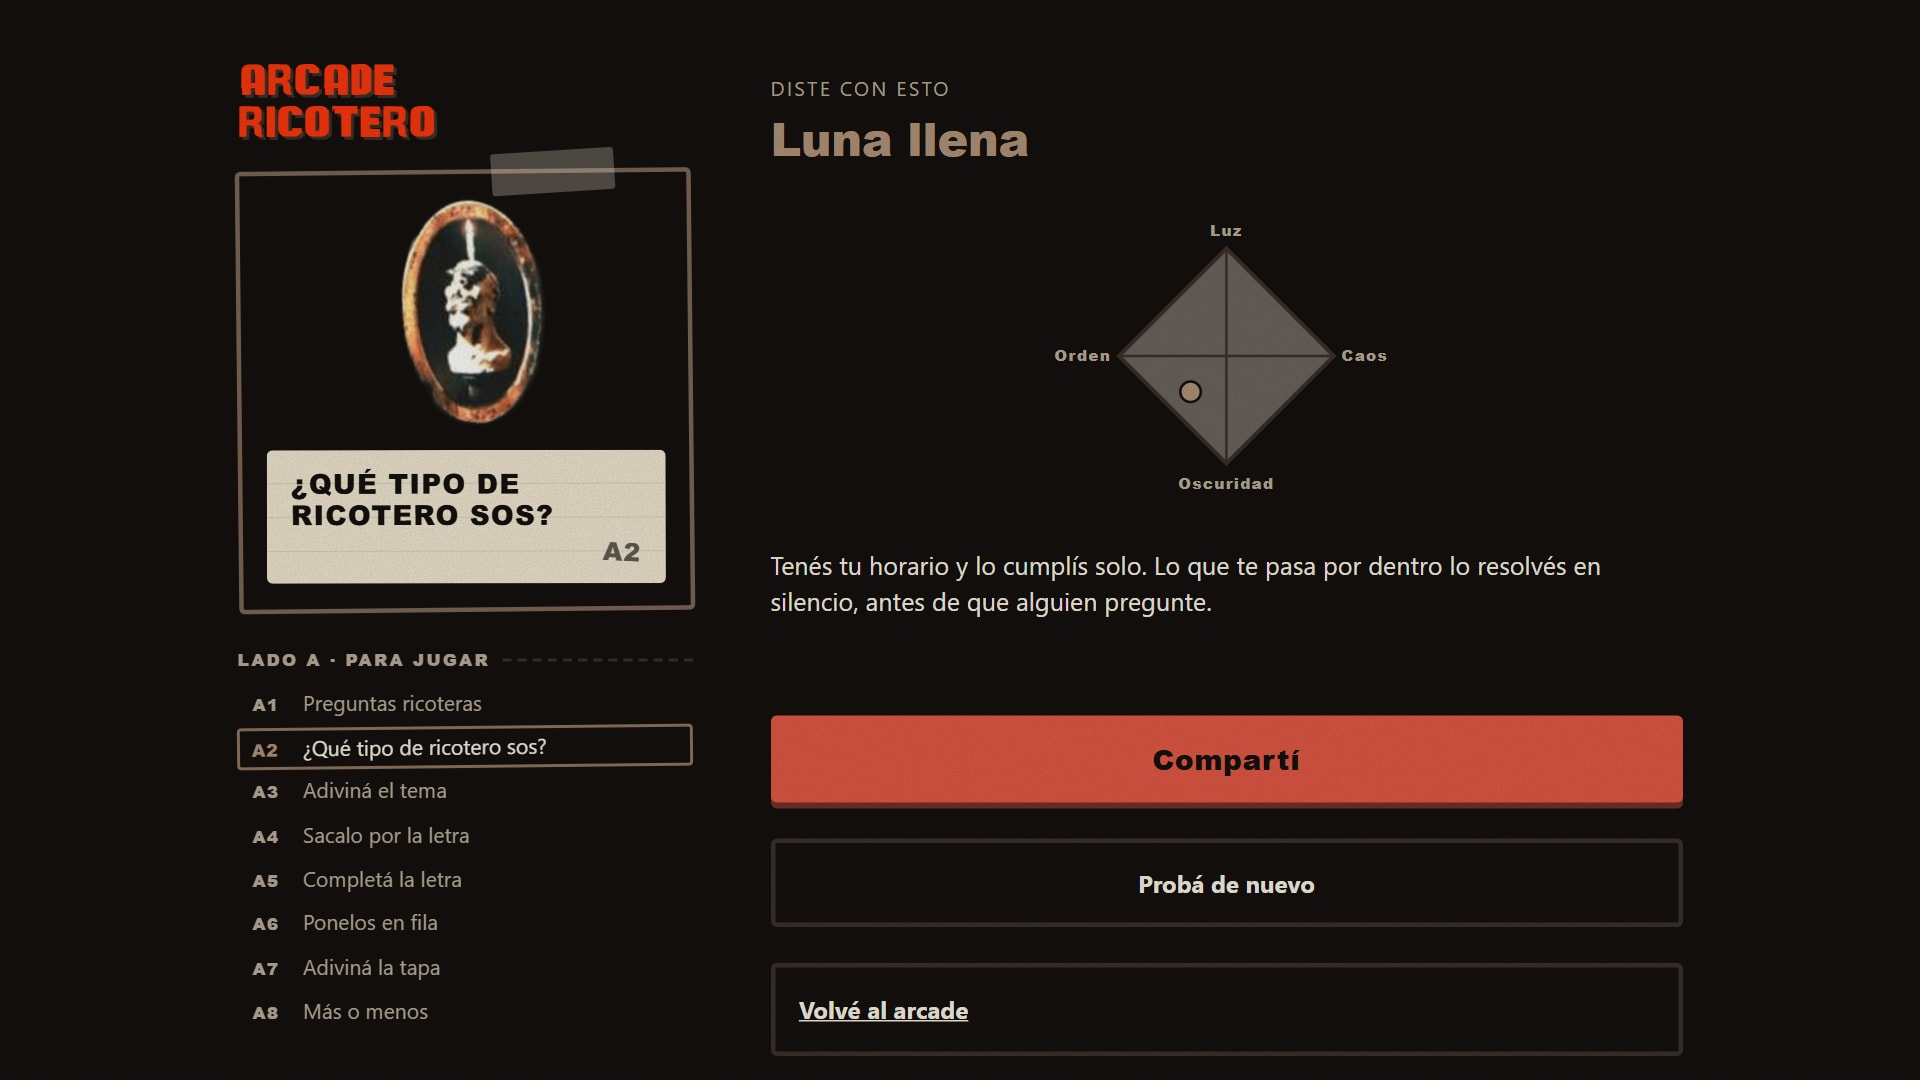
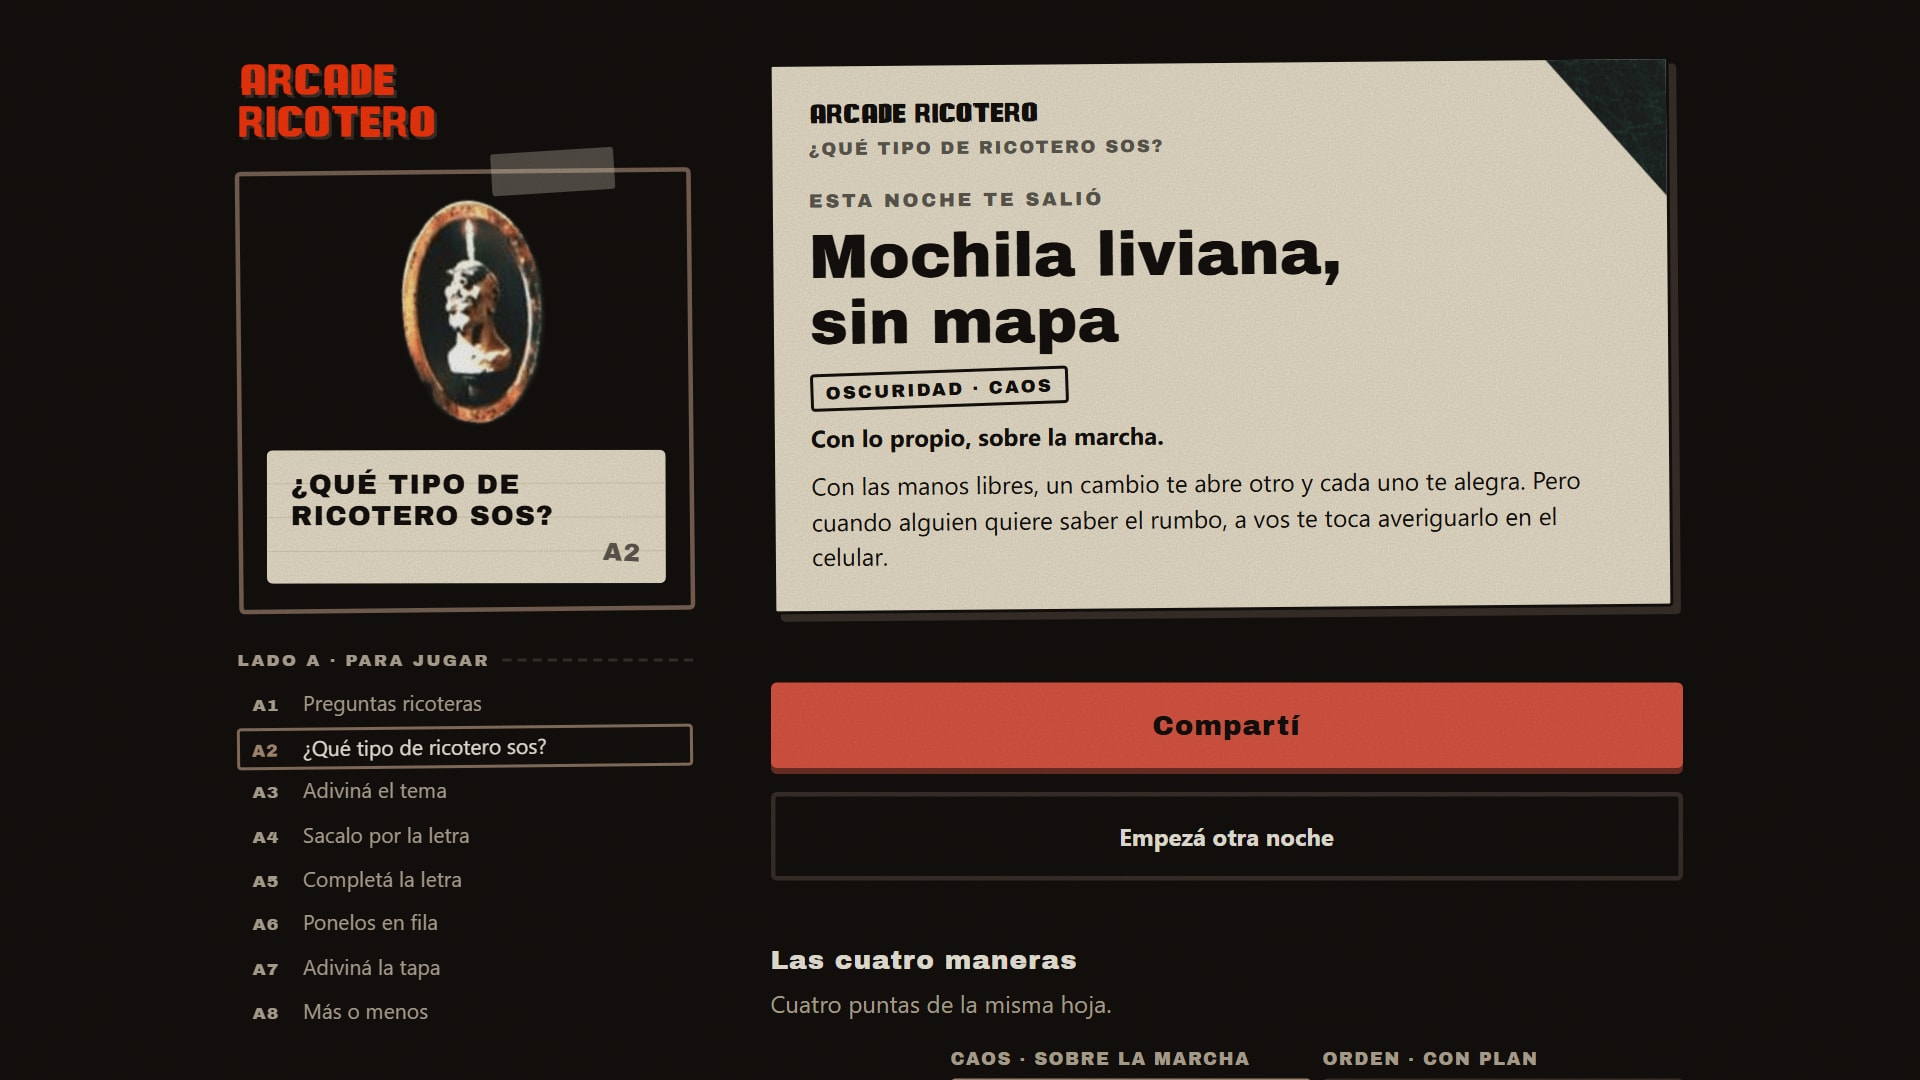
El hilo pasa a Fichín Ricotero, con el tono de los 40 de Oktubre
El usuario escribió el primer posteo ("Felices 40 años de Oktubre, hermanos
ricoteros...") y pidió pulirlo y llevar los otros once a ese tono: más de
fan a fan, más cerca. Además, el sitio cambia de nombre a Fichín Ricotero y
de dominio a fichinricotero.com.ar.

- hilo.json y hilo.md: los doce textos reescritos y los 13 enlaces
  apuntando a https://fichinricotero.com.ar/. Los doce entran en 280 (el
  más largo, 274), y las 13 rutas responden 200 en el deploy actual. El
  dominio nuevo todavía no resuelve DNS: no se puede publicar hasta que
  cargue.
- El 5 cuenta el juego nuevo del ciclo 18 (una noche de recital en diez
  preguntas) y su foto se volvió a sacar con el resultado nuevo.
- La descripción de la foto 1 ya no nombra la marca, para no tener que
  tocarla cuando se vuelvan a sacar las fotos.
- Las fotos siguen mostrando ARCADE RICOTERO: se vuelven a sacar cuando el
  nombre nuevo esté en producción.

diff --git a/difusion/hilo-twitter/hilo.md b/difusion/hilo-twitter/hilo.md
@@ -1,35 +1,41 @@
-# Hilo del Arcade Ricotero
+# Hilo del Fichín Ricotero
 
-Doce posteos. El 1 va suelto; cada uno de los siguientes, como respuesta al anterior. La foto de cada uno está en esta carpeta con el mismo número.
+Doce posteos para el 4 de octubre de 2026, los 40 años de Oktubre. El 1 va suelto; cada uno de los siguientes, como respuesta al anterior. La foto de cada uno está en esta carpeta con el mismo número.
+
+Antes de publicar:
+
+- Los enlaces apuntan a https://fichinricotero.com.ar, que tiene que estar cargando. El 4 de octubre a la tarde todavía no resolvía.
+- Las fotos se sacaron con la marca vieja (ARCADE RICOTERO). Se vuelven a sacar cuando el nombre nuevo esté publicado.
+- El 1 y el 3 hablan del cumpleaños de Oktubre: son para el 4 de octubre.
 
 ## 1 · Presentación
 
 Foto: `01-portada.jpg`
 
 ```
-Estás en la puerta, con las dos cintas.
+Felices 40 años de Oktubre, hermanos ricoteros.
 
-Arcade Ricotero: nueve juegos sobre Patricio Rey y sus Redonditos de Ricota, para el celular y un rato suelto. Sin cuenta ni entrada, sepas lo que sepas. Los molinetes van abiertos.
+¿Qué mejor día para sacar el Fichín Ricotero? Una página de juegos y data redonda para festejarlo: gratis, sin cuenta, sepas mucho o nada.
 
-Abajo, uno por uno.
+Abajo, juego por juego.
 
-https://arcade-ricotero.vercel.app
+https://fichinricotero.com.ar
 ```
 
-Descripción de la foto: Portada del Arcade Ricotero: la marca, el afiche de octubre con los seis discos que salieron ese mes, y los primeros casetes de juegos.
+Descripción de la foto: Portada del sitio: la marca, el afiche de octubre con los seis discos que salieron ese mes, y los primeros casetes de juegos.
 
 ## 2 · Adiviná el tema
 
 Foto: `02-adivina-el-tema.jpg`
 
 ```
-El juego estrella: Adiviná el tema.
+Arrancamos por el juego estrella: Adiviná el tema.
 
-Suena una décima de segundo. ¿No sale? Te damos más: medio segundo, dos, cuatro, ocho, diez. Cuanto antes la pegues, más vale. Cuatro temas por vuelta, de los 95 que hay.
+Te suena una décima de segundo de un tema. Si no lo sacás, te damos más: medio segundo, dos, cuatro, ocho, diez. Cuanto antes la pegues, más puntos.
 
 ¿Te da el oído?
 
-https://arcade-ricotero.vercel.app/juegos/adivinar-el-tema/
+https://fichinricotero.com.ar/juegos/adivinar-el-tema/
 ```
 
 Descripción de la foto: Partida de Adiviná el tema: van dos pasadas, la cinta marca 2 segundos de audio sonando y el tema vale 60 puntos.
@@ -39,11 +45,11 @@ Descripción de la foto: Partida de Adiviná el tema: van dos pasadas, la cinta 
 Foto: `03-adivina-el-tema-la-sacaste.jpg`
 
 ```
-Cuando la sacás, aparece la tapa con el disco, el año y la pista, y de ahí saltás a la letra con los acordes.
+Cuando la pegás, te muestra la tapa, el año y la pista, y de ahí te vas a la letra con los acordes.
 
-Se juega con los diez discos o con uno solo. Este mes el portal tiene afiche: Oktubre cumple cuarenta el 4, y podés jugar solo con sus temas.
+Y por el cumple, en la portada hay afiche: podés jugar solo con los temas de Oktubre.
 
-https://arcade-ricotero.vercel.app
+https://fichinricotero.com.ar
 ```
 
 Descripción de la foto: Acierto en Adiviná el tema: sello de La sacaste, más 60, la tapa de Oktubre y la ficha del tema.
@@ -53,11 +59,11 @@ Descripción de la foto: Acierto en Adiviná el tema: sello de La sacaste, más 
 Foto: `04-preguntas-ricoteras.jpg`
 
 ```
-Preguntas ricoteras. Ninguna piadosa.
+Para los que se saben hasta los créditos: Preguntas ricoteras.
 
-Historia, discos, letras y mitología, de fácil a difícil, con tres vidas. Cada respuesta trae su explicación, y si el dato es leyenda, dice que es leyenda.
+Historia, discos, letras y mitología, de fácil a difícil y con tres vidas. Cada respuesta trae su explicación, y si algo es leyenda, te avisa que es leyenda.
 
-https://arcade-ricotero.vercel.app/quiz/
+https://fichinricotero.com.ar/quiz/
 ```
 
 Descripción de la foto: Pregunta de Preguntas ricoteras sobre el álbum doble, respondida bien, con la explicación abajo.
@@ -67,16 +73,14 @@ Descripción de la foto: Pregunta de Preguntas ricoteras sobre el álbum doble, 
 Foto: `05-que-tipo-de-ricotero-sos.jpg`
 
 ```
-¿Qué tipo de ricotero sos?
+¿Y si no sabés nada de la banda? Para vos está ¿Qué tipo de ricotero sos?
 
-Nadie te toma examen. Diez preguntas sobre vos, sin puntaje y sin saber nada de la banda: te ubica entre la luz y la oscuridad, el orden y el caos.
+Una noche de recital en diez preguntas, de la previa a la vuelta. Sin puntaje, sin examen y sin haber ido nunca. Mandáselo a ese amigo que todavía no escuchó un disco entero.
 
-Para mandárselo al que nunca escuchó un disco.
-
-https://arcade-ricotero.vercel.app/juegos/dos-ejes/
+https://fichinricotero.com.ar/juegos/dos-ejes/
 ```
 
-Descripción de la foto: Resultado de Qué tipo de ricotero sos: un rombo entre luz, oscuridad, orden y caos, con el punto del jugador.
+Descripción de la foto: Resultado de Qué tipo de ricotero sos: esta noche te salió Mochila liviana, sin mapa, con lo propio y sobre la marcha.
 
 ## 6 · Sacalo por la letra
 
@@ -85,9 +89,9 @@ Foto: `06-sacalo-por-la-letra.jpg`
 ```
 Sacalo por la letra.
 
-Un verso te tiene que alcanzar. Si no, van dos, cuatro, ocho. Escribís el título como te salga: sin tildes anda igual, y por la mitad también.
+Te mostramos un verso y tenés que decir de qué tema es. Si no sale, van dos versos, después cuatro, después ocho. Escribí el título como te salga: sin tildes anda igual.
 
-https://arcade-ricotero.vercel.app/juegos/adivinar-por-la-letra/
+https://fichinricotero.com.ar/juegos/adivinar-por-la-letra/
 ```
 
 Descripción de la foto: Sacalo por la letra: dos versos a la vista, el buscador para escribir el tema y el botón para pasar.
@@ -99,9 +103,9 @@ Foto: `07-completa-la-letra.jpg`
 ```
 Completá la letra.
 
-Lo tenés en la punta de la lengua. Falta una palabra del verso y hay cuatro para elegir. Ocho versos por vuelta.
+Ese verso que gritaste mil veces en el pogo, con una palabra menos. Cuatro opciones para elegir y ocho versos por vuelta. A ver si te la acordás.
 
-https://arcade-ricotero.vercel.app/juegos/completar-la-letra/
+https://fichinricotero.com.ar/juegos/completar-la-letra/
 ```
 
 Descripción de la foto: Completá la letra: un verso con la palabra que faltaba marcada en verde y las cuatro opciones.
@@ -113,9 +117,9 @@ Foto: `08-ponelos-en-fila.jpg`
 ```
 Ponelos en fila.
 
-Unos te tiran al pogo; otros, quietito. Los diez discos, las diez tapas o los temas de un disco: el orden lo armás vos, y después lo mandás para que te lo discutan.
+Agarrás los diez discos, las diez tapas o los temas de un disco y decidís cuáles te tiran al pogo y cuáles escuchás quietito. Después lo compartís, y que arranque la discusión.
 
-https://arcade-ricotero.vercel.app/juegos/ponelos-en-fila/
+https://fichinricotero.com.ar/juegos/ponelos-en-fila/
 ```
 
 Descripción de la foto: Ponelos en fila con las diez tapas: filas en el pogo, saltando, cabeceando y quietito, con algunas tapas ubicadas.
@@ -127,9 +131,9 @@ Foto: `09-adivina-la-tapa.jpg`
 ```
 Adiviná la tapa.
 
-Rocambole dibujó; vos ponés el disco. Un pedazo de tapa en pantalla y cuatro discos para elegir. Seis tapas por vuelta.
+Un pedazo de una tapa de Rocambole y cuatro discos para elegir, seis tapas por vuelta. Parece fácil hasta que te toca el pedazo equivocado.
 
-https://arcade-ricotero.vercel.app/juegos/adivinar-la-tapa/
+https://fichinricotero.com.ar/juegos/adivinar-la-tapa/
 ```
 
 Descripción de la foto: Adiviná la tapa: un pedazo de la tapa de Oktubre y cuatro discos para elegir.
@@ -141,11 +145,9 @@ Foto: `10-mas-o-menos.jpg`
 ```
 Más o menos.
 
-Preguntas de número sobre la banda: cuántos años, cuántos temas, cuánto dura. Elegís más o menos, sin red, hasta que le erres una.
+¿Cuántos temas tiene tal disco? ¿Cuánto dura En directo? Te tiramos un número y vos decís si es más o menos. Seguís hasta que le erres una.
 
-¿Cuánto te dura la racha?
-
-https://arcade-ricotero.vercel.app/juegos/mas-o-menos/
+https://fichinricotero.com.ar/juegos/mas-o-menos/
 ```
 
 Descripción de la foto: Más o menos: pregunta de cuántos temas tiene un disco, respondida bien, con la fuente del dato.
@@ -155,13 +157,13 @@ Descripción de la foto: Más o menos: pregunta de cuántos temas tiene un disco
 Foto: `11-skayboy-y-poligirl.jpg`
 
 ```
-Skayboy y Poligirl.
+Y un fichín de los de antes: Skayboy y Poligirl.
 
-Un fichín para dos en el mismo teléfono, cada uno de su lado, o para vos solo. Cielo para uno, infierno para el otro, y las puertas se abren juntas. En la computadora, con W A D y las flechas.
+Para jugar de a dos en el mismo celular, cada uno de su lado, o solo. Cielo para uno, infierno para el otro. En la compu va con W A D y las flechas.
 
 Homenaje de fans, no oficial.
 
-https://arcade-ricotero.vercel.app/juegos/skayboy-y-poligirl/
+https://fichinricotero.com.ar/juegos/skayboy-y-poligirl/
 ```
 
 Descripción de la foto: Skayboy y Poligirl: pantalla de fichín en pixeles con los dos personajes, sus puertas y las teclas de cada uno.
@@ -171,12 +173,12 @@ Descripción de la foto: Skayboy y Poligirl: pantalla de fichín en pixeles con 
 Foto: `12-lado-b-redondopedia.jpg`
 
 ```
-Y el lado B, para leer.
+Y cuando te canses de jugar, el lado B.
 
-La Redondopedia: la historia entera, el hecho como hecho y la leyenda como leyenda. Y Letras y acordes: los diez discos, con los acordes arriba de cada verso.
+La Redondopedia, con la historia de la banda: lo que es dato como dato y lo que es leyenda como leyenda. Y Letras y acordes, con los diez discos para sacar con la guitarra.
 
-https://arcade-ricotero.vercel.app/redondopedia/
-https://arcade-ricotero.vercel.app/letras-y-acordes/
+https://fichinricotero.com.ar/redondopedia/
+https://fichinricotero.com.ar/letras-y-acordes/
 ```
 
 Descripción de la foto: Artículo de Oktubre en la Redondopedia: la tapa, la fecha de salida y el primer párrafo.
